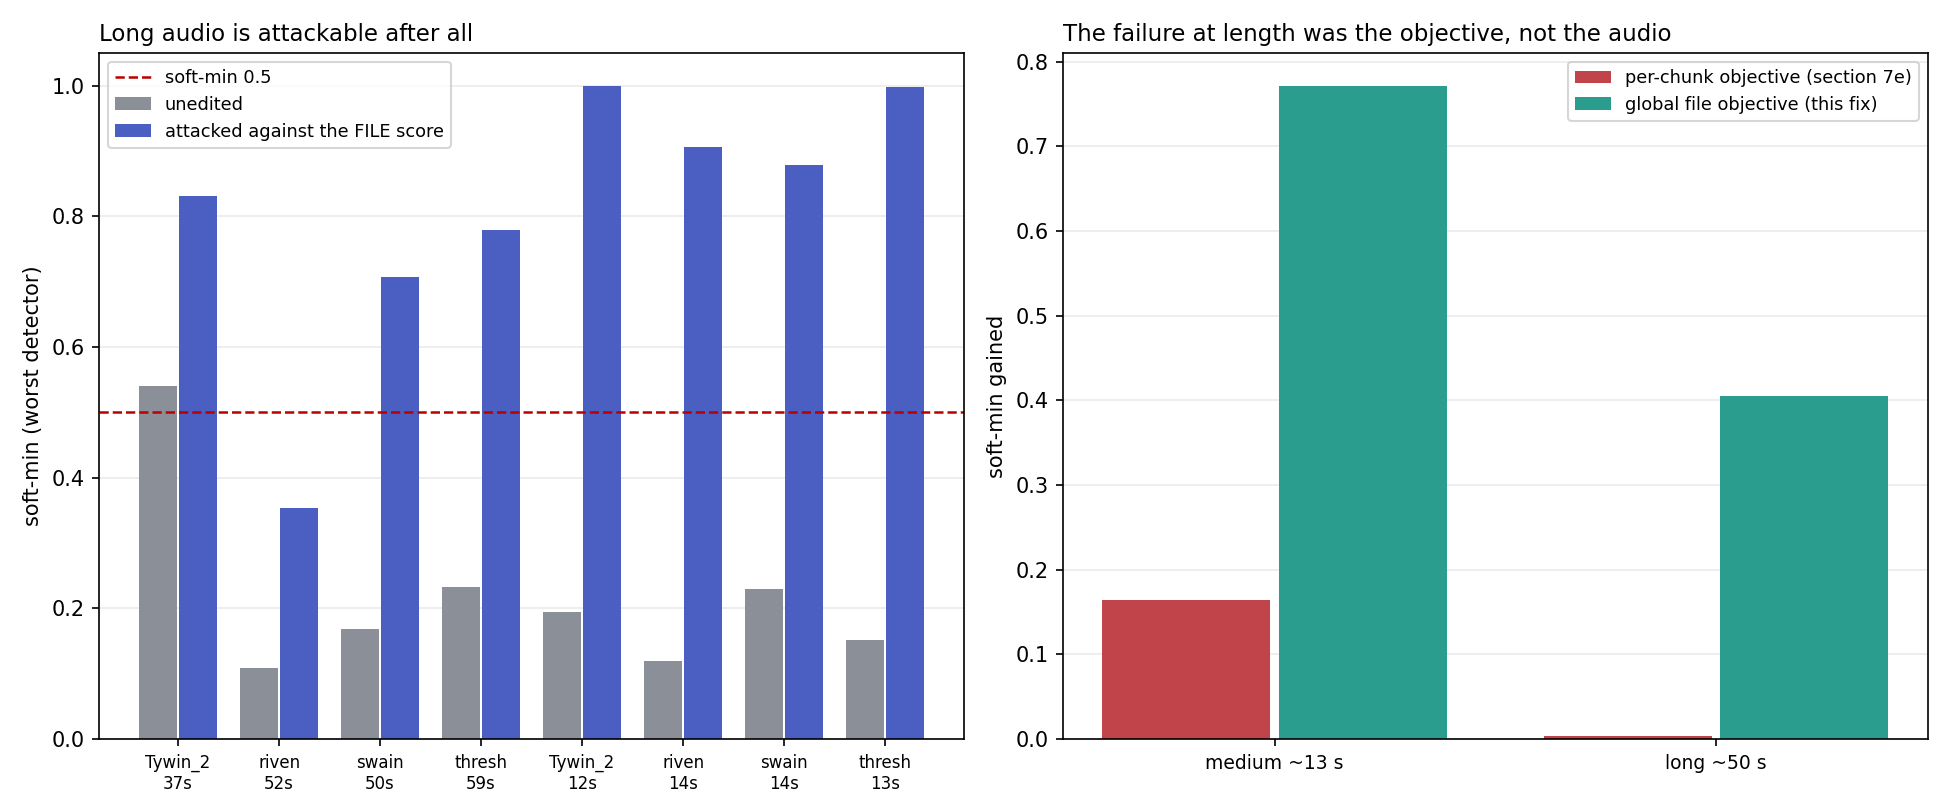
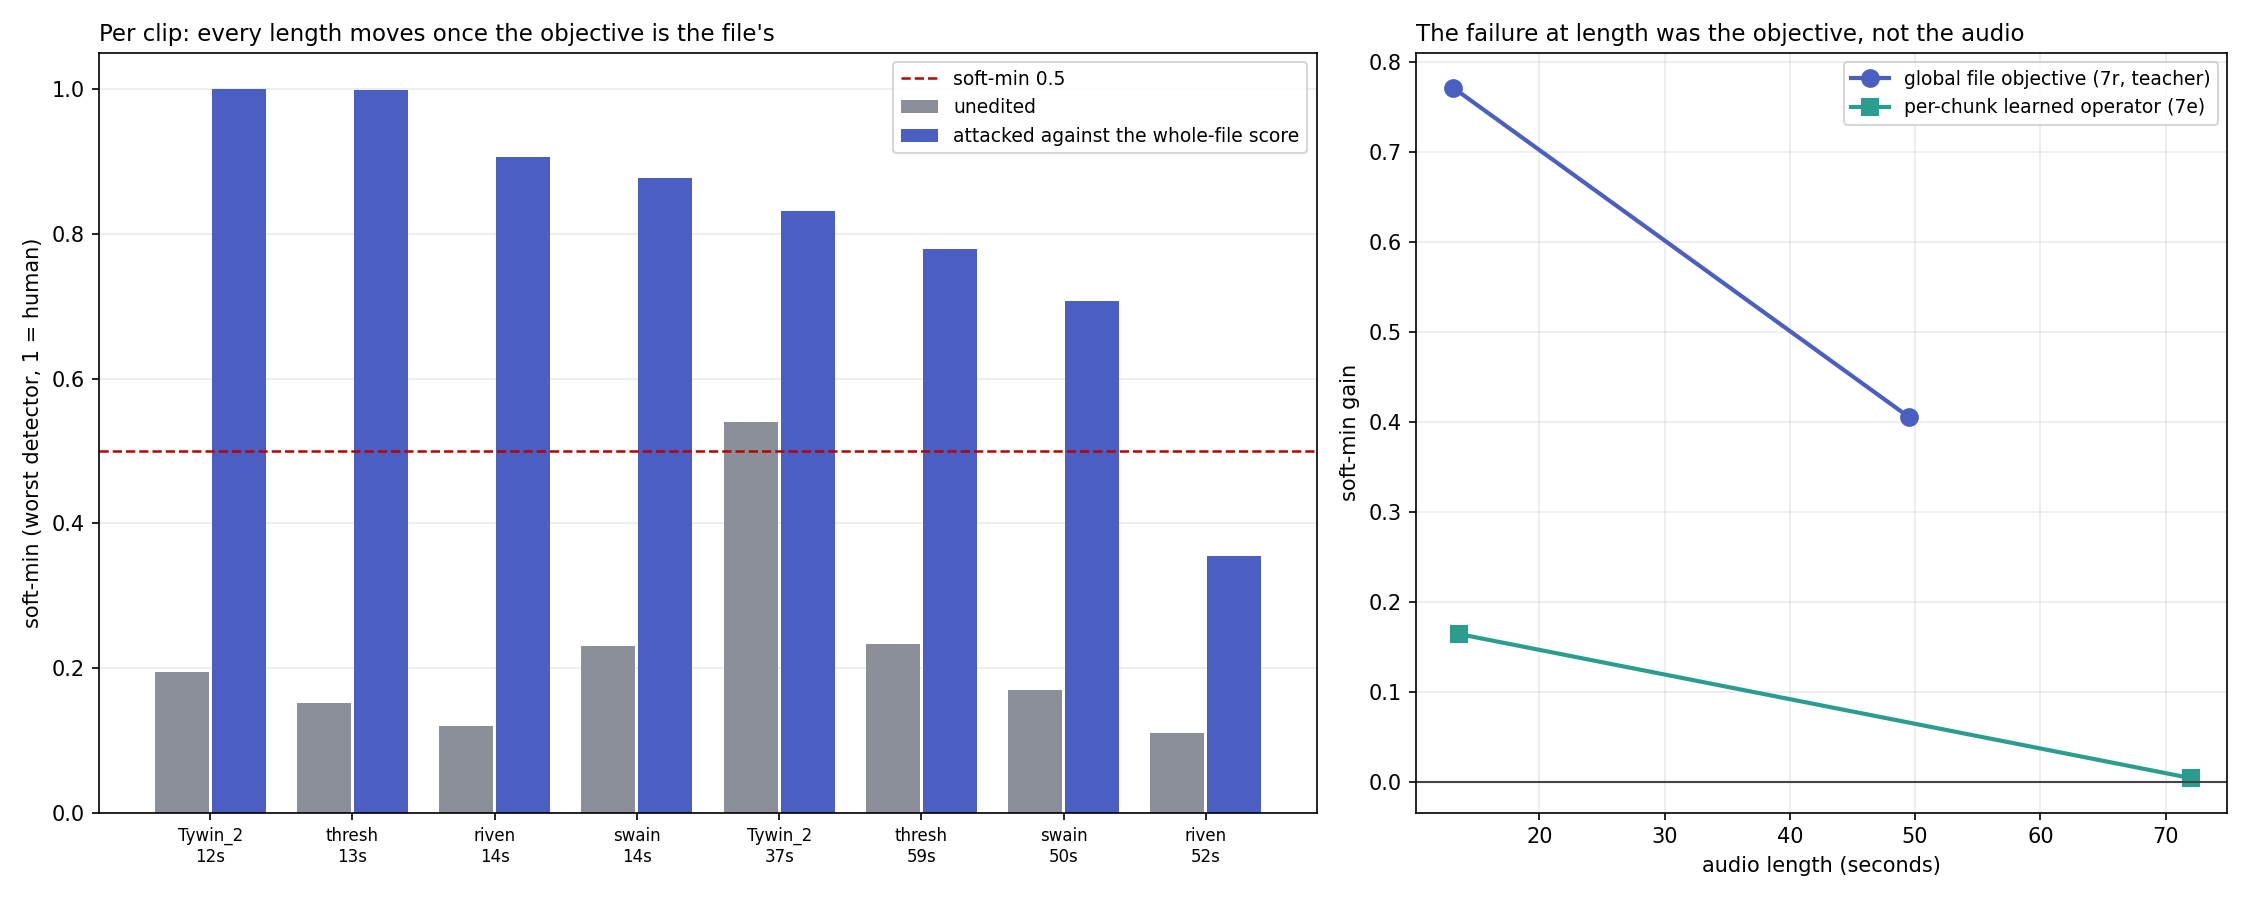
Make figure 18 reproducible as plot_longform.py
The figure was drawn ad-hoc and could not be regenerated. This reads whatever
long-form runs exist (13 s / 50 s, and ~72 s when it lands) and plots the new
global-objective gains against section 7e's per-chunk numbers at the same
lengths, so the comparison the section claims is visible rather than asserted.

Safe to draw mid-run, since longform.py now rewrites its json after every
clip, and it prints a warning on the figure itself if any clip hit OOM skips.

diff --git a/plot_longform.py b/plot_longform.py
@@ -1,0 +1,119 @@
+r"""
+plot_longform.py -- figure 18: long audio under the global-file objective.
+
+    python plot_longform.py
+
+Section 7e measured the learned operator's gain vanishing at ~72 s and
+recorded it as a scope limit. Section 7r re-tests the same lengths with each
+chunk optimised against the WHOLE FILE's soft-min (longform.py). This draws
+the two against each other.
+
+Left    per clip, soft-min before and after, grouped by audio length.
+Right   gain against length: the old per-chunk numbers from 7e beside the new
+        global-objective ones. The question the figure answers is whether the
+        failure at length was in the audio or in what was being optimised.
+
+Reads whatever runs exist, so it is safe to draw mid-run: longform_attack_
+medlong.json (13 s, 50 s) and longform_xlong.json (~72 s), which longform.py
+now rewrites after every clip.
+"""
+
+from __future__ import annotations
+
+import json
+import sys
+from pathlib import Path
+
+import matplotlib
+matplotlib.use("Agg")
+import matplotlib.pyplot as plt
+import numpy as np
+
+sys.path.insert(0, str(Path(__file__).resolve().parent))
+from env_config import GRAPHS_DIR, RESULTS_ROOT
+
+RL = RESULTS_ROOT / "rl_runs"
+C_BASE, C_NEW, C_OLD = "#8a8f98", "#4a5fc1", "#2a9d8f"
+
+# section 7e, per-chunk operator at each length (mean over the voices tested)
+SEVEN_E = {"medium": (13.6, 0.164), "xlong": (72.0, 0.004)}
+
+
+def load(name):
+    p = RL / name
+    if not p.is_file():
+        return []
+    return json.loads(p.read_text(encoding="utf8")).get("rows", [])
+
+
+def main() -> int:
+    GRAPHS_DIR.mkdir(parents=True, exist_ok=True)
+    rows = load("longform_attack_medlong.json") + load("longform_xlong.json")
+    if not rows:
+        print("no long-form results yet")
+        return 1
+
+    order = ["medium", "long", "xlong"]
+    rows.sort(key=lambda r: (order.index(r["length"]) if r["length"] in order
+                             else 9, -r["attacked"]["softmin"]))
+    skipped = [r for r in rows if r.get("skip_frac")]
+
+    fig, (ax1, ax2) = plt.subplots(1, 2, figsize=(15, 6),
+                                   gridspec_kw={"width_ratios": [1.5, 1]})
+
+    xs = np.arange(len(rows))
+    ax1.bar(xs - 0.2, [r["base"]["softmin"] for r in rows], 0.38,
+            color=C_BASE, label="unedited")
+    ax1.bar(xs + 0.2, [r["attacked"]["softmin"] for r in rows], 0.38,
+            color=C_NEW, label="attacked against the whole-file score")
+    ax1.axhline(0.5, color="#b00", lw=1.2, ls="--", label="soft-min 0.5")
+    ax1.set_xticks(xs)
+    ax1.set_xticklabels([f"{r['voice']}\n{r['seconds']:.0f}s" for r in rows],
+                        fontsize=8)
+    ax1.set_ylabel("soft-min (worst detector, 1 = human)")
+    ax1.set_title("Per clip: every length moves once the objective is the file's",
+                  fontsize=11, loc="left")
+    ax1.grid(axis="y", alpha=0.25)
+    ax1.set_axisbelow(True)
+    ax1.legend(fontsize=9)
+
+    # right: gain against length, old vs new
+    by_len = {}
+    for r in rows:
+        by_len.setdefault(r["length"], []).append(
+            (r["seconds"], r["attacked"]["softmin"] - r["base"]["softmin"]))
+    nl = sorted(((float(np.mean([s for s, _ in v])),
+                  float(np.mean([g for _, g in v])), k)
+                 for k, v in by_len.items()))
+    ax2.plot([x[0] for x in nl], [x[1] for x in nl], "-o", color=C_NEW, lw=2,
+             ms=8, label="global file objective (7r, teacher)")
+    ol = sorted(SEVEN_E.values())
+    ax2.plot([x[0] for x in ol], [x[1] for x in ol], "-s", color=C_OLD, lw=2,
+             ms=8, label="per-chunk learned operator (7e)")
+    ax2.axhline(0, color="#444", lw=1)
+    ax2.set_xlabel("audio length (seconds)")
+    ax2.set_ylabel("soft-min gain")
+    ax2.set_title("The failure at length was the objective, not the audio",
+                  fontsize=11, loc="left")
+    ax2.grid(alpha=0.25)
+    ax2.set_axisbelow(True)
+    ax2.legend(fontsize=9)
+
+    if skipped:
+        fig.text(0.01, 0.01, f"warning: {len(skipped)} clip(s) hit OOM skips "
+                 f"(max {max(r['skip_frac'] for r in skipped):.0%} of chunk "
+                 f"steps) and are optimised on a fraction of the file",
+                 fontsize=8, color="#b00")
+
+    fig.tight_layout()
+    out = GRAPHS_DIR / "18_longform.png"
+    fig.savefig(out, dpi=150)
+    plt.close(fig)
+    print(f"wrote {out}  ({len(rows)} clips, lengths {sorted(by_len)})")
+    for s, g, k in nl:
+        print(f"  {k:<8}{s:5.0f}s   mean gain {g:+.3f}")
+    return 0
+
+
+if __name__ == "__main__":
+    sys.exit(main())
